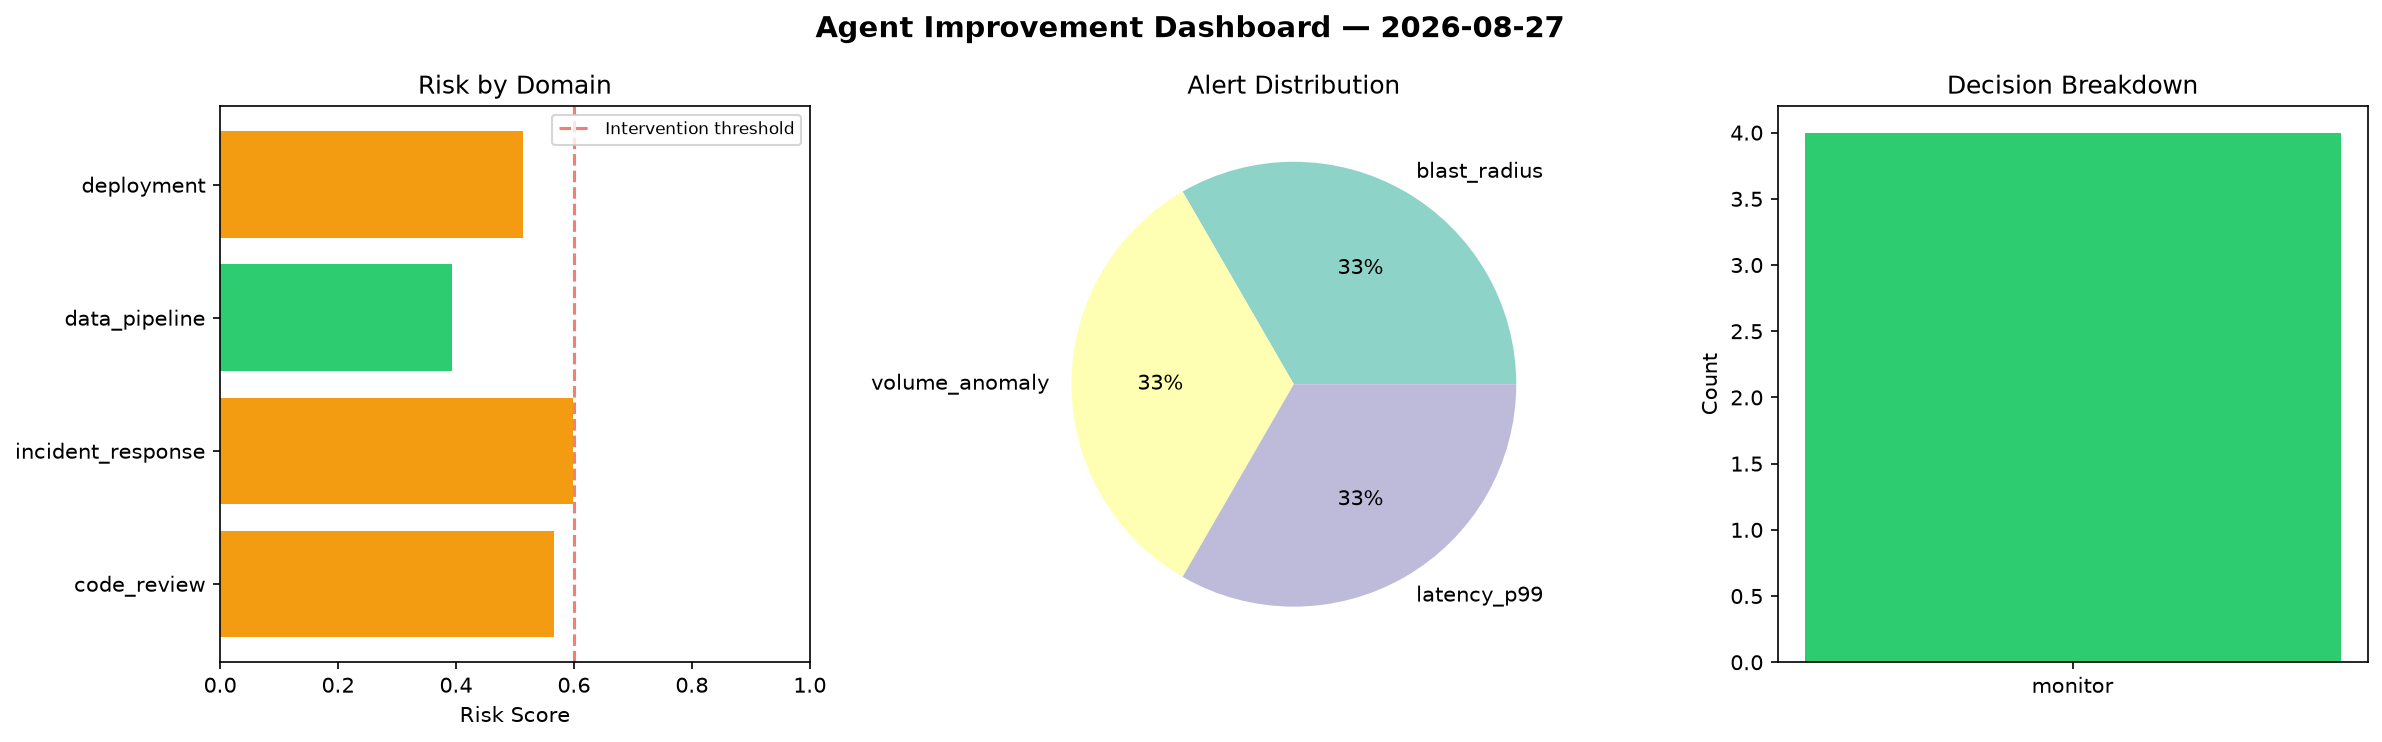
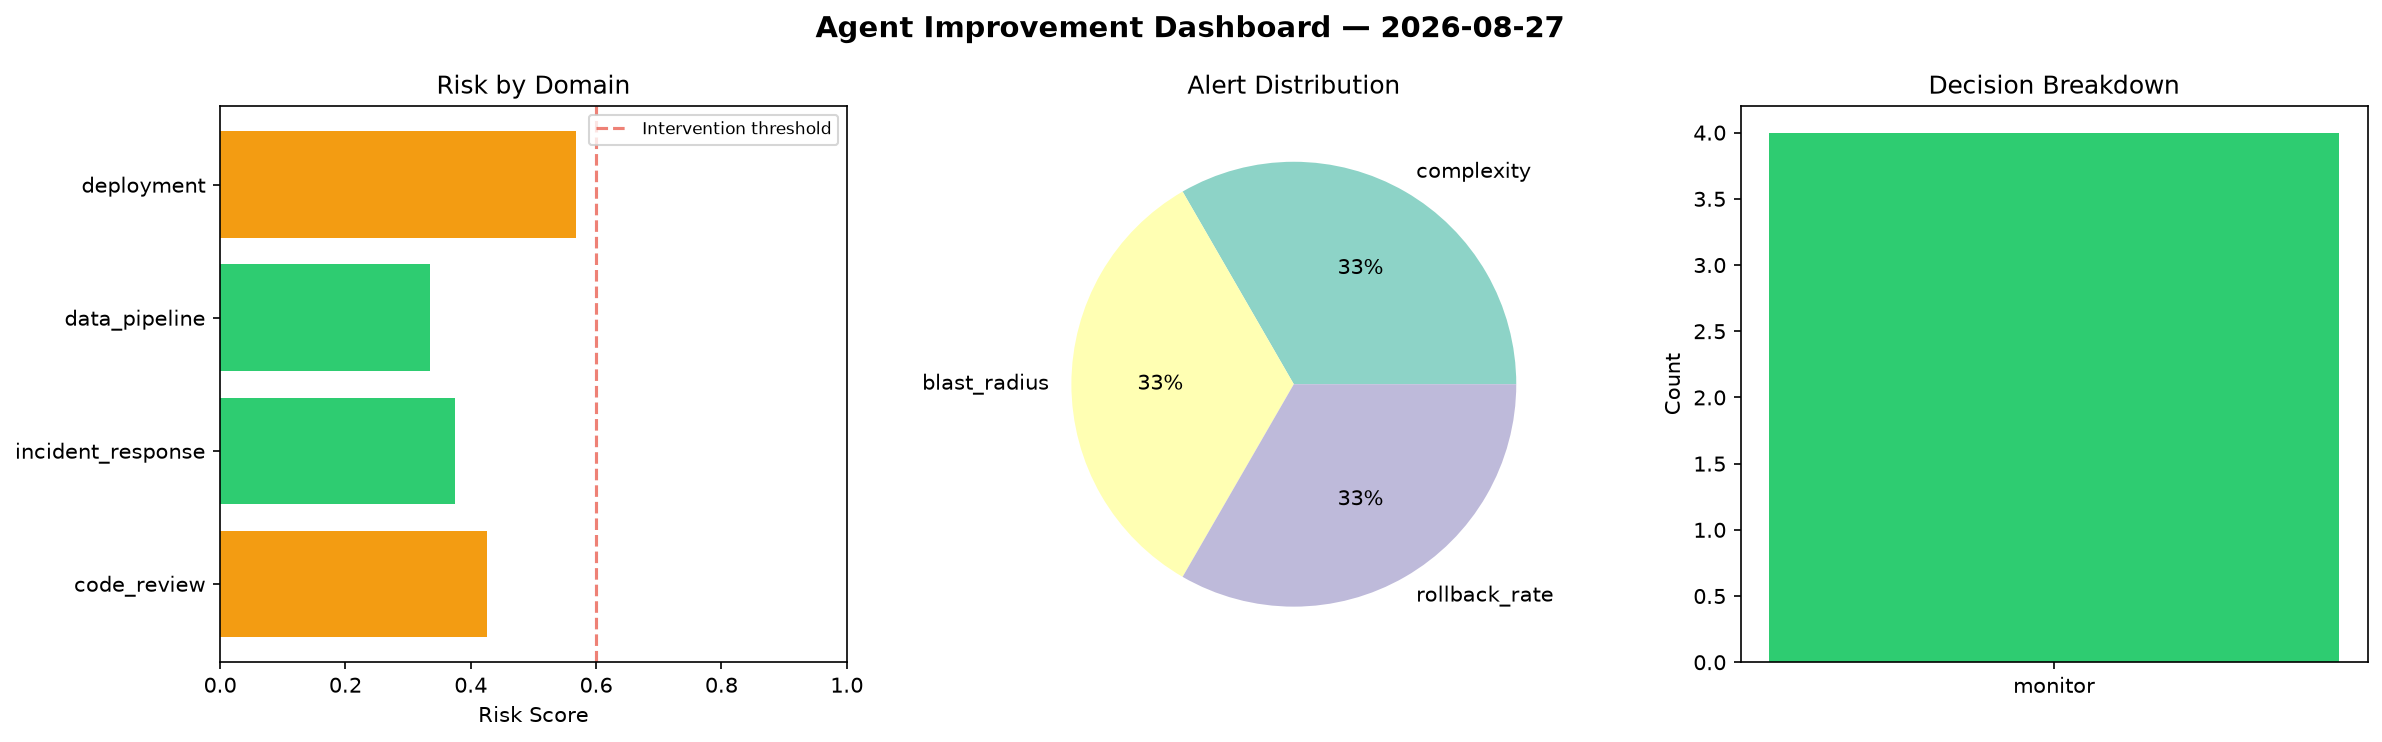
agent-improvement: daily cycle 2026-08-27T19:04

diff --git a/logs/2026-08-27.md b/logs/2026-08-27.md
@@ -1,6 +1,6 @@
 # Agent Improvement Report — 2026-08-27
 
-**Cycle ID:** `f0200ace` | **Avg Risk:** 0.5182 | **Interventions:** 0/4
+**Cycle ID:** `6a6e58a6` | **Avg Risk:** 0.4258 | **Interventions:** 0/4
 
 ![Dashboard](2026-08-27_dashboard.png)
 
@@ -10,18 +10,18 @@
 
 | Domain | Risk Score | Decision | Alerts |
 |--------|-----------|----------|--------|
-| code_review | 0.5669 | monitor | none |
-| incident_response | 0.5988 | monitor | blast_radius |
-| data_pipeline | 0.3926 | monitor | volume_anomaly |
-| deployment | 0.5144 | monitor | latency_p99 |
+| code_review | 0.4262 | monitor | complexity |
+| incident_response | 0.3743 | monitor | blast_radius |
+| data_pipeline | 0.3346 | monitor | none |
+| deployment | 0.5682 | monitor | rollback_rate |
 
 ## Delta vs Yesterday
 
 | Domain | Today | Yesterday | Change |
 |--------|-------|-----------|--------|
-| code_review | 0.5669 | 0.4813 | 📈 17.8% |
-| incident_response | 0.5988 | 0.1512 | 📈 296.0% |
-| data_pipeline | 0.3926 | 0.4171 | 📉 -5.9% |
-| deployment | 0.5144 | 0.7884 | 📉 -34.8% |
+| code_review | 0.4262 | 0.4813 | 📉 -11.4% |
+| incident_response | 0.3743 | 0.1512 | 📈 147.6% |
+| data_pipeline | 0.3346 | 0.4171 | 📉 -19.8% |
+| deployment | 0.5682 | 0.7884 | 📉 -27.9% |
 
-**Refinement:** `{'adjustment': 'maintain', 'trend': 'improving', 'window': 4}`
+**Refinement:** `{'adjustment': 'tighten_thresholds', 'trend': 'degrading', 'window': 4}`
